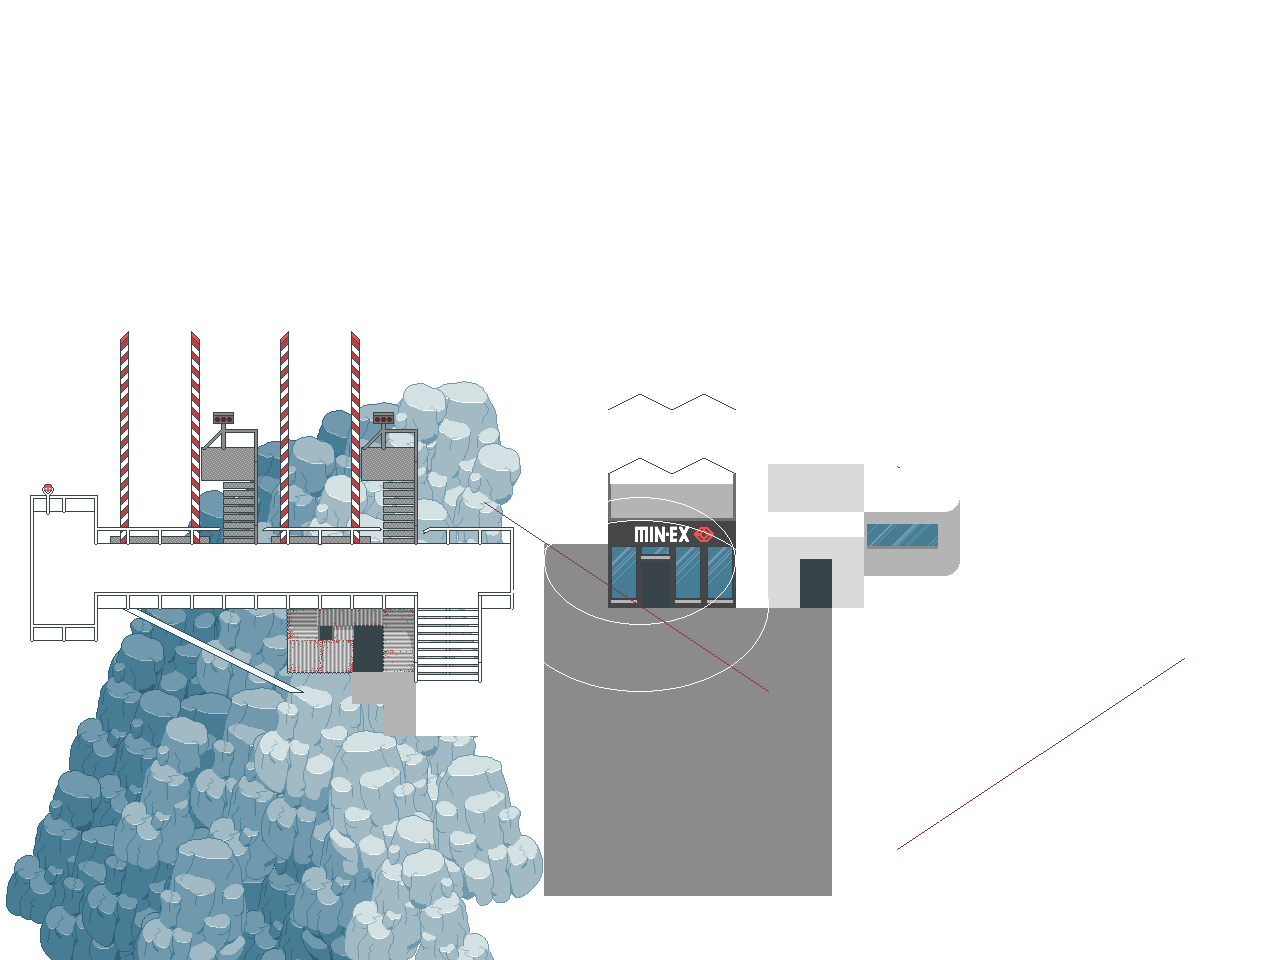
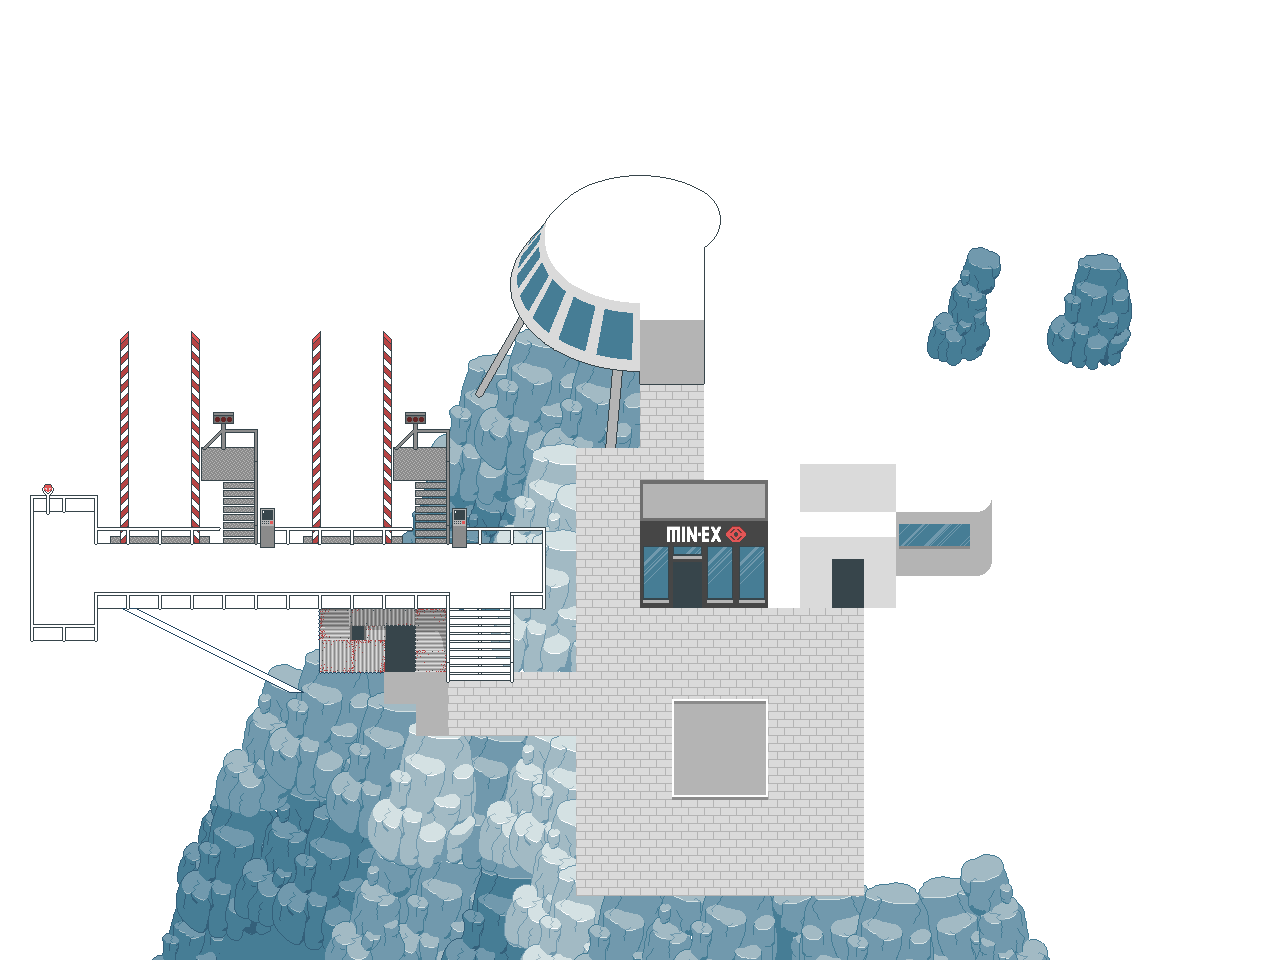
Visual tweaks

diff --git a/AstroMiner/Definitions/WorldGrid.cs b/AstroMiner/Definitions/WorldGrid.cs
@@ -22,35 +22,35 @@ public static class WorldGrid
     // -------------------------------0-------------------1-------------------2------------
     // -------------------------------0,1,2,3,4,5,6,7,8,9,0,1,2,3,4,5,6,7,8,9,0,1,2,3,4,5,6
     private const string OizusWorld = """
-                                      X,X,X,X,X,X,X,X,X,X,X,X,X,X,X,X,X,X,X,X,X,X,X,X,X,X,X
-                                      X,X,X,X,X,X,X,X,X,X,X,X,X,X,X,X,X,X,X,X,X,X,X,X,X,X,X
-                                      X,X,X,X,X,X,X,X,X,X,X,X,X,X,X,X,X,X,X,X,X,X,X,X,X,X,X
-                                      X,X,X,X,X,X,X,X,X,X,X,X,X,X,X,X,X,X,X,X,X,X,X,X,X,X,X
-                                      X,X,X,X,X,X,X,X,X,X,X,X,X,X,X,X,X,X,X,X,X,X,X,X,X,X,X
-                                      X,X,X,X,X,X,X,X,X,X,X,X,X,X,X,X,X,X,X,X,X,X,X,X,X,X,X
-                                      X,X,X,X,X,X,X,X,X,X,X,X,X,X,X,X,X,X,X,X,X,X,X,X,X,X,X
-                                      X,X,X,X,X,X,X,X,X,X,X,X,X,X,X,X,X,X,X,X,X,X,X,X,X,X,X
-                                      X,X,X,X,X,X,X,X,X,X,X,X,X,X,X,X,X,X,X,X,X,X,X,X,X,X,X
-                                      X,X,X,X,X,X,X,X,X,X,X,X,X,X,X,X,X,X,X,X,X,X,X,X,X,X,X
-                                      X,X,X,X,X,X,X,X,X,X,X,X,X,X,X,X,X,X,X,X,X,X,X,X,X,X,X
-                                      X,X,X,X,X,X,X,X,X,X,X,X,X,X,X,X,X,X,X,X,X,X,X,X,X,X,X
-                                      X,X,X,X,X,X,X,X,X,X,X,X,X,X,X,X,X,X,X,X,X,X,X,X,X,X,X
-                                      X,X,X,X,-,-,X,X,X,X,X,X,X,X,X,X,X,X,X,X,X,X,X,X,X,X,X
-                                      X,X,X,X,-,-,-,-,X,X,X,-,-,X,X,X,X,X,X,X,X,X,X,X,X,X,X
-                                      X,X,X,X,X,X,X,-,X,X,X,X,-,X,X,X,X,X,X,X,X,X,X,X,X,X,X
-                                      X,-,-,X,X,X,X,-,X,X,X,X,-,X,X,X,X,X,X,X,X,X,X,X,X,X,X
-                                      X,-,-,-,-,-,-,-,-,-,-,-,-,-,-,-,X,-,-,X,X,X,X,X,X,X,X
-                                      X,-,-,-,-,-,-,-,-,-,-,-,-,-,-,-,X,-,-,X,X,X,X,X,X,X,X
-                                      X,-,-,X,X,X,X,X,X,X,X,X,X,-,-,X,X,-,-,-,-,-,-,-,-,-,X
-                                      X,X,X,X,X,X,X,X,X,X,X,@,X,-,-,X,X,-,-,-,-,-,-,-,-,-,X
-                                      X,X,X,X,X,X,X,X,X,X,X,-,-,-,-,-,-,-,-,-,-,-,-,-,-,-,X
-                                      X,X,X,X,X,X,X,X,X,X,X,X,-,-,-,-,-,-,-,-,-,-,-,-,-,-,X
-                                      X,X,X,X,X,X,X,X,X,X,X,X,X,X,X,X,X,-,-,-,-,-,-,-,-,-,X
-                                      X,X,X,X,X,X,X,X,X,X,X,X,X,X,X,X,X,-,-,-,-,-,-,-,-,-,X
-                                      X,X,X,X,X,X,X,X,X,X,X,X,X,X,X,X,X,-,-,-,-,-,-,-,-,-,X
-                                      X,X,X,X,X,X,X,X,X,X,X,X,X,X,X,X,X,-,-,-,-,-,-,-,-,-,X
-                                      X,X,X,X,X,X,X,X,X,X,X,X,X,X,X,X,X,-,-,-,-,-,-,-,-,-,X
-                                      X,X,X,X,X,X,X,X,X,X,X,X,X,X,X,X,X,X,X,X,X,X,X,X,X,X,X
+                                      X,X,X,X,X,X,X,X,X,X,X,X,X,X,X,X,X,X,X,X,X,X,X,X,X,X,X,X
+                                      X,X,X,X,X,X,X,X,X,X,X,X,X,X,X,X,X,X,X,X,X,X,X,X,X,X,X,X
+                                      X,X,X,X,X,X,X,X,X,X,X,X,X,X,X,X,X,X,X,X,X,X,X,X,X,X,X,X
+                                      X,X,X,X,X,X,X,X,X,X,X,X,X,X,X,X,X,X,X,X,X,X,X,X,X,X,X,X
+                                      X,X,X,X,X,X,X,X,X,X,X,X,X,X,X,X,X,X,X,X,X,X,X,X,X,X,X,X
+                                      X,X,X,X,X,X,X,X,X,X,X,X,X,X,X,X,X,X,X,X,X,X,X,X,X,X,X,X
+                                      X,X,X,X,X,X,X,X,X,X,X,X,X,X,X,X,X,X,X,X,X,X,X,X,X,X,X,X
+                                      X,X,X,X,X,X,X,X,X,X,X,X,X,X,X,X,X,X,X,X,X,X,X,X,X,X,X,X
+                                      X,X,X,X,X,X,X,X,X,X,X,X,X,X,X,X,X,X,X,X,X,X,X,X,X,X,X,X
+                                      X,X,X,X,X,X,X,X,X,X,X,X,X,X,X,X,X,X,X,X,X,X,X,X,X,X,X,X
+                                      X,X,X,X,X,X,X,X,X,X,X,X,X,X,X,X,X,X,X,X,X,X,X,X,X,X,X,X
+                                      X,X,X,X,X,X,X,X,X,X,X,X,X,X,X,X,X,X,X,X,X,X,X,X,X,X,X,X
+                                      X,X,X,X,X,X,X,X,X,X,X,X,X,X,X,X,X,X,X,X,X,X,X,X,X,X,X,X
+                                      X,X,X,X,-,-,X,X,X,X,X,X,X,X,X,X,X,X,X,X,X,X,X,X,X,X,X,X
+                                      X,X,X,X,-,-,-,-,X,X,X,X,-,-,X,X,X,X,X,X,X,X,X,X,X,X,X,X
+                                      X,X,X,X,X,X,X,-,X,X,X,X,X,-,X,X,X,X,-,-,X,X,X,X,X,X,X,X
+                                      X,-,-,X,X,X,X,-,X,X,X,X,X,-,X,X,X,X,-,-,X,X,X,X,X,X,X,X
+                                      X,-,-,-,-,-,-,-,-,-,-,-,-,-,-,-,-,X,-,-,X,X,X,X,X,X,X,X
+                                      X,-,-,-,-,-,-,-,-,-,-,-,-,-,-,-,-,X,-,-,X,X,X,X,X,X,X,X
+                                      X,-,-,X,X,X,X,X,X,X,X,X,X,X,-,-,X,X,-,-,-,-,-,-,-,-,-,X
+                                      X,X,X,X,X,X,X,X,X,X,X,X,@,X,-,-,X,X,-,-,-,-,-,-,-,-,-,X
+                                      X,X,X,X,X,X,X,X,X,X,X,X,-,-,-,-,-,-,-,-,-,-,-,-,-,-,-,X
+                                      X,X,X,X,X,X,X,X,X,X,X,X,X,-,-,-,-,-,-,-,-,X,X,X,-,-,-,X
+                                      X,X,X,X,X,X,X,X,X,X,X,X,X,X,X,X,X,X,-,-,-,X,X,X,-,-,-,X
+                                      X,X,X,X,X,X,X,X,X,X,X,X,X,X,X,X,X,X,-,-,-,X,X,X,-,-,-,X
+                                      X,X,X,X,X,X,X,X,X,X,X,X,X,X,X,X,X,X,-,-,-,-,-,-,-,-,-,X
+                                      X,X,X,X,X,X,X,X,X,X,X,X,X,X,X,X,X,X,-,-,-,-,-,-,-,-,-,X
+                                      X,X,X,X,X,X,X,X,X,X,X,X,X,X,X,X,X,X,-,-,-,-,-,-,-,-,-,X
+                                      X,X,X,X,X,X,X,X,X,X,X,X,X,X,X,X,X,X,X,X,X,X,X,X,X,X,X,X
                                       """;
 
     // ---------------------------------0,1,2,3,4,5,6,7

diff --git a/AstroMiner/Utilities/ViewHelpers.cs b/AstroMiner/Utilities/ViewHelpers.cs
@@ -39,7 +39,6 @@ public class ViewHelpers(GameState gameState, GraphicsDeviceManager graphics)
     {
         var (viewportGridWidth, viewportGridHeight) = GetViewportGridSize();
 
-        // TODO allow overriding this on a per world basis? Might be wonky for medium sized internal rooms
         var widthThreshold = viewportGridWidth / 2;
         var heightThreshold = viewportGridHeight / 2;
 
@@ -48,11 +47,14 @@ public class ViewHelpers(GameState gameState, GraphicsDeviceManager graphics)
         float cameraX;
         float cameraY;
 
+        // Remove clamping for Oizus left (pier)
+        var leftThreshold = gameState.ActiveWorld == World.Home ? 0 : widthThreshold;
+
 
         if (cols <= widthThreshold * 2)
             cameraX = cols / 2f;
         else
-            cameraX = Math.Clamp(cameraPos.X, widthThreshold, cols - widthThreshold);
+            cameraX = Math.Clamp(cameraPos.X, leftThreshold, cols - widthThreshold);
 
         if (rows <= heightThreshold * 2)
             cameraY = rows / 2f;

diff --git a/AstroMiner/Definitions/Coordinates.cs b/AstroMiner/Definitions/Coordinates.cs
@@ -10,11 +10,13 @@ public static class Coordinates
         public const int ParallaxMountains1Y = 10;
         public const int ParallaxMountains2Y = -40;
         public const int ParallaxMountains3Y = -90;
+        public const int UnderRocksX = 10;
+        public const int UnderRocksY = 20;
 
         public static readonly (int x, int y) MinerHomeStartPosCenter = (5, 14);
         public static readonly (int x, int y) PlayerHomeStartPos = (7, 17);
 
-        public static readonly (int x, int y) HomeToRigRoomPortal = (11, 20);
+        public static readonly (int x, int y) HomeToRigRoomPortal = (12, 20);
         public static readonly (int x, int y) RigToomToHomePortal = (4, 7);
     }
 

diff --git a/AstroMiner/Renderers/LaunchParallaxRenderer.cs b/AstroMiner/Renderers/LaunchParallaxRenderer.cs
@@ -28,5 +28,9 @@ public class LaunchParallaxRenderer(RendererShared shared)
         RenderLayer(spriteBatch, Coordinates.Grid.ParallaxMountains3Y, 0.1f, 0.85f);
         RenderLayer(spriteBatch, Coordinates.Grid.ParallaxMountains2Y, 0.15f, 0.6f);
         RenderLayer(spriteBatch, Coordinates.Grid.ParallaxMountains1Y, 0.2f, 0.3f);
+
+        spriteBatch.Draw(shared.Textures["oizus-rocks-under"],
+            shared.ViewHelpers.GetVisibleRectForGridCell(Coordinates.Grid.UnderRocksX, Coordinates.Grid.UnderRocksY, 23,
+                20, 0.6f), Color.White);
     }
 }

diff --git a/AstroMiner/AstroMinerGame.cs b/AstroMiner/AstroMinerGame.cs
@@ -88,6 +88,7 @@ public class AstroMinerGame : Game
         LoadTexture("mountains-nice");
         LoadTexture("mountains-nice-mask");
         LoadTexture("mountains-nice-tiled");
+        LoadTexture("oizus-rocks-under");
         LoadTexture("rig-room");
     }
 
